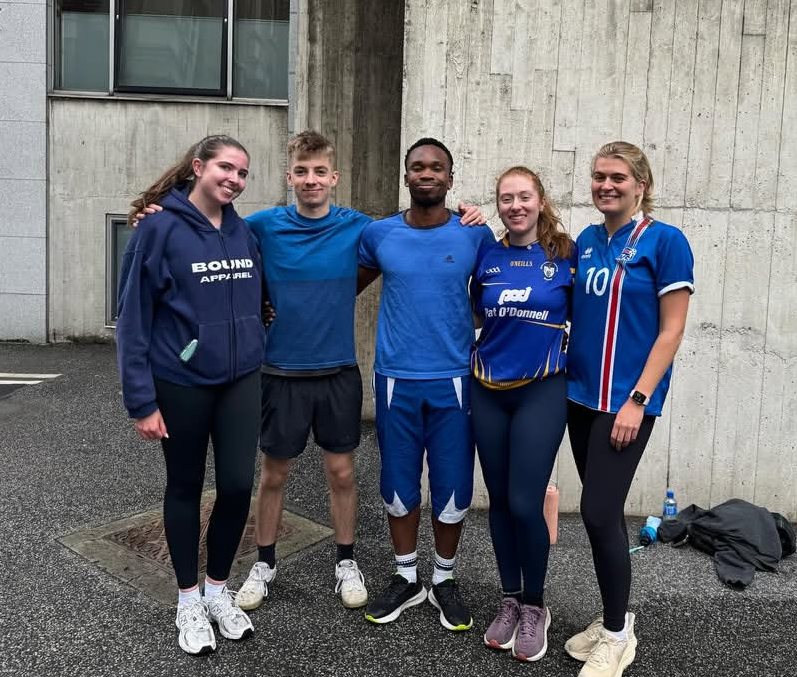
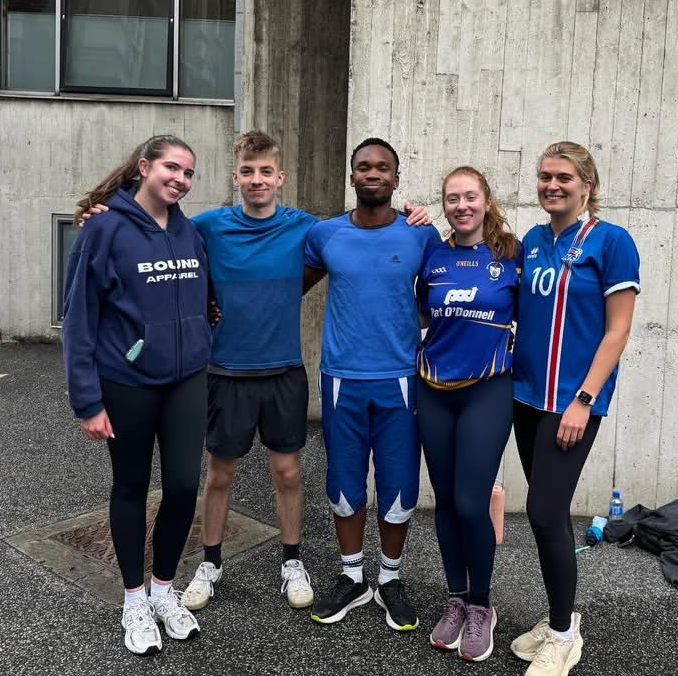
edit capstone post

diff --git a/_posts/2026-01-10-Capstone-Project.md b/_posts/2026-01-10-Capstone-Project.md
@@ -5,9 +5,10 @@ layout: posts
 # Capstone project
 
 In my final year of university, I undertook a capstone project in supramolecular chemistry under the supervision of [Prof. Thorfinnur Gunnlaugsson](https://thorrigunnlaugsson.wordpress.com/). My work investigated the properties of a particular BTP-based ligand and studied how addition of functional groups at a key position could change its behaviour.
-![image](/assets/ThorrisHammers.png)
-![image](/assets/TytusLab.jpeg)
-
+<div class="img-side-by-side">
+  <img src="/assets/ThorrisHammers.png">
+  <img src="/assets/TytusLab.jpeg" >
+</div>
 ## Supramolecular chemistry?
 Supramolecular chemistry involves designing molecules with deliberately engineered interactions that allow them to self-assemble into more complex structures. Aside from being structurally interesting, supramolecular systems can be exploited for chemical sensors, functional materials such as self-healing gels or antibacterial coatings, and biomaterials for medical purposes.
 
@@ -21,14 +22,14 @@ BTP stands for *2,6-bis(1,2,3-triazol-4-yl)pyridine*, a relatively new chemical 
 
 ![image](/assets/BTP5.svg)
 
-## Scope of project
+## Scope of project:
 Over the last decade, the Gunnlaugsson Group has been at the forefront of BTP research for coordination chemistry, focusing on how different structures can be attached to the BTP scaffold to achieve a desired effect.
 
 My project continued this work, functionalizing a previously studied BTP-containing ligand at a particular position on the side chain. The target ligands are shown below:
 
 ![image](/assets/BTP6.svg)
 
-## Findings
+## Findings:
 My research showed that the nitro and methoxy ligands (2 & 3) could not be synthesised through a previously used click-chemistry approach, suggesting steric or electronic disruption of the CuAAC click mechanism.
 
 The fluoro ligand (1) was successfully synthesised and fully characterised, with the following properties recorded:
